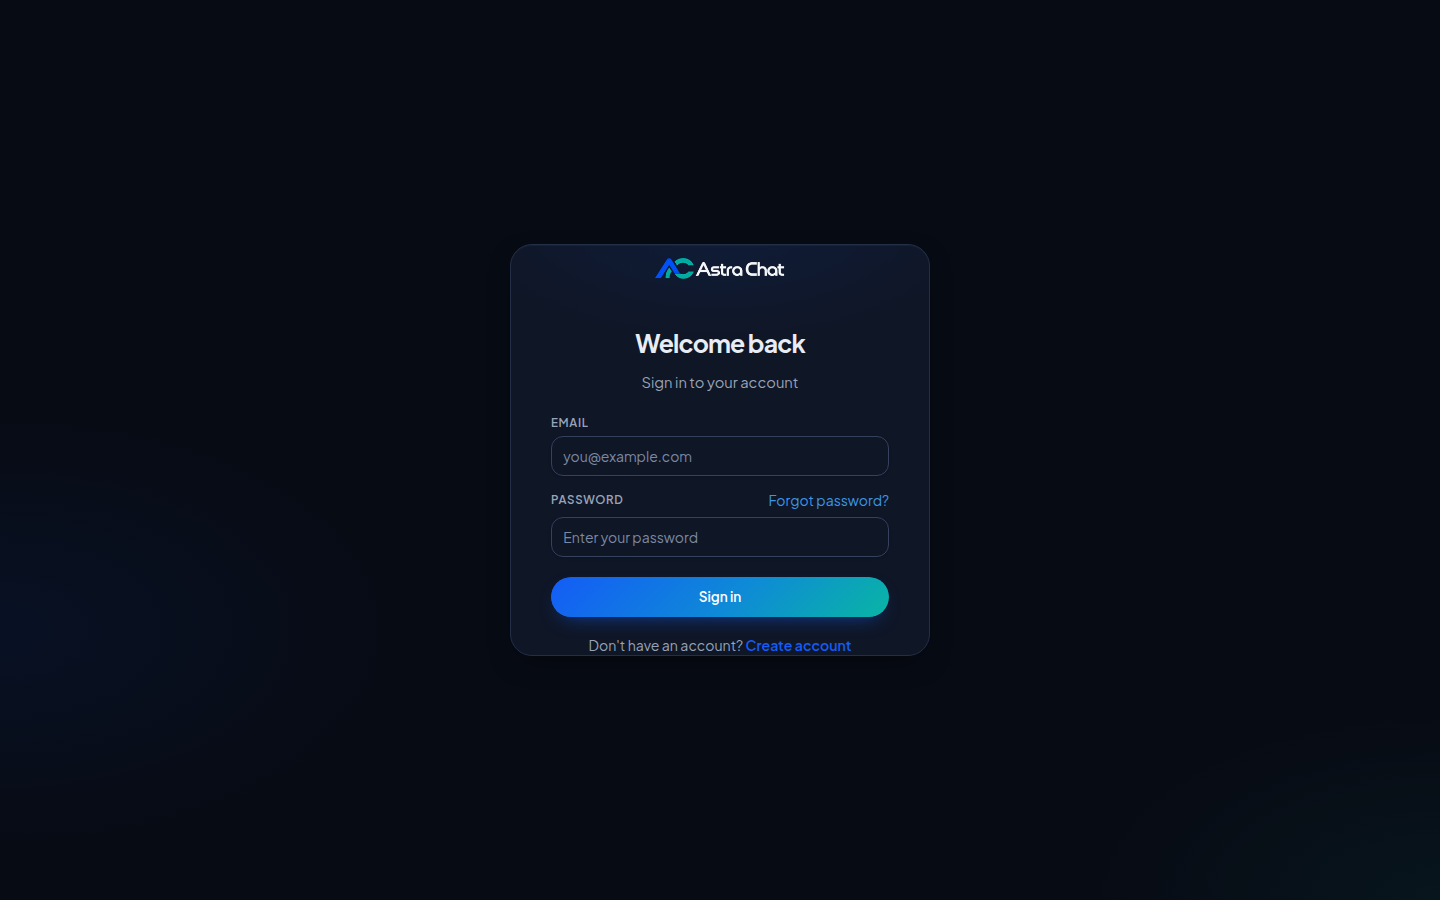
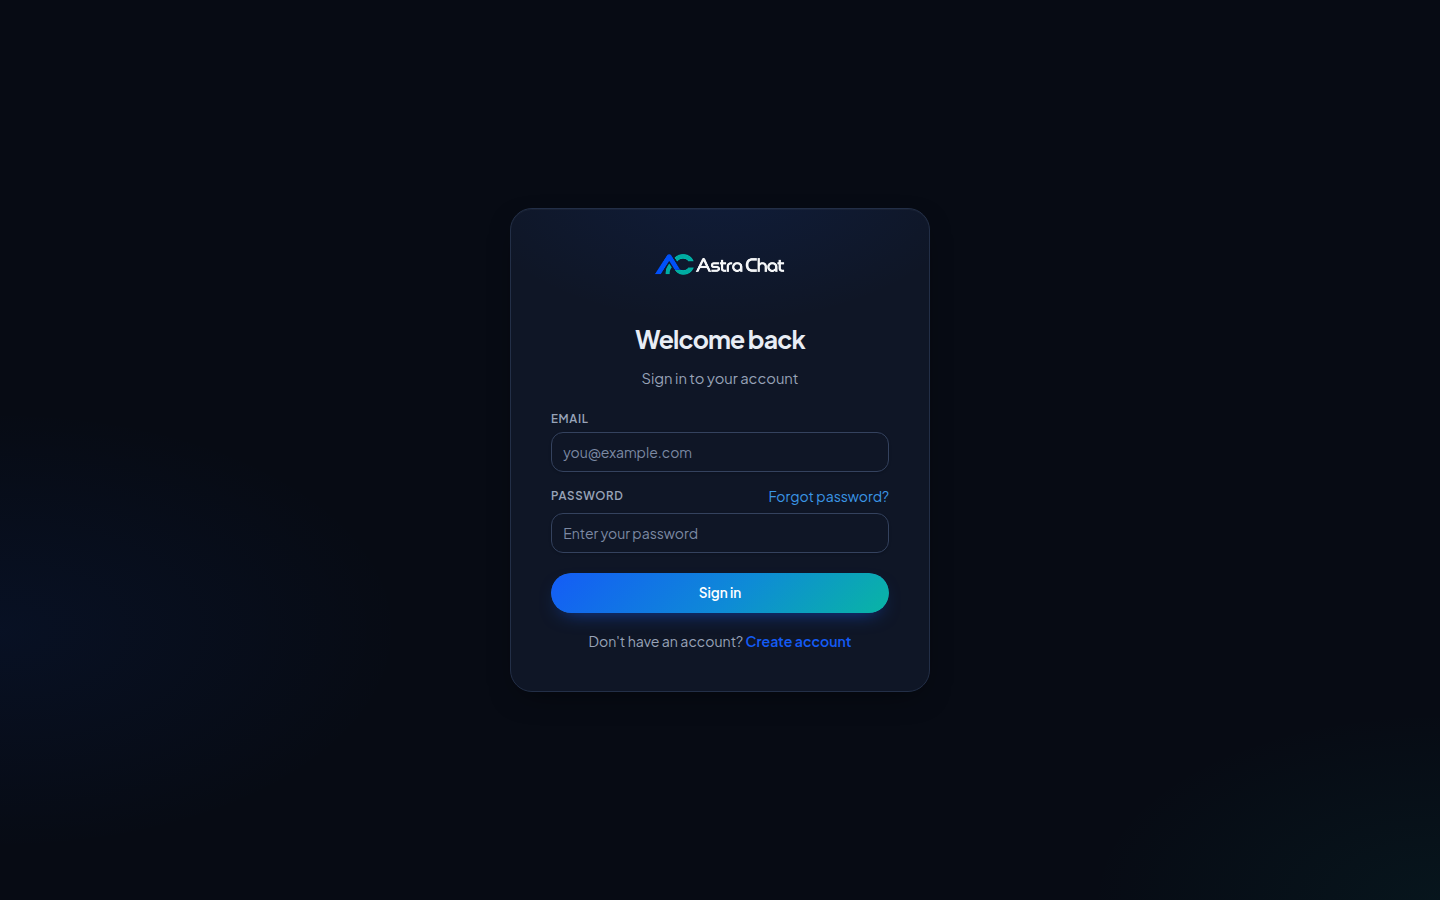
fix(review): restore login card top padding; retake login + 1440 shots
Remove !py-0 on auth cards so .acl-card's 32px top padding actually
applies, then retake login-light/dark and a real 1440 integrations shot.

diff --git a/src/app/(auth)/forgot-password/page.tsx b/src/app/(auth)/forgot-password/page.tsx
@@ -47,7 +47,7 @@ export default function ForgotPasswordPage() {
   if (success) {
     return (
       <div className="acl-wrap">
-        <Card className="acl-card !block !gap-0 !py-0">
+        <Card className="acl-card !block !gap-0">
           <CardHeader className="items-center px-0 text-center">
             <div className="bg-primary/10 mb-2 flex h-12 w-12 items-center justify-center rounded-xl">
               <CheckCircle className="text-primary h-6 w-6" />
@@ -74,7 +74,7 @@ export default function ForgotPasswordPage() {
 
   return (
     <div className="acl-wrap">
-      <Card className="acl-card !block !gap-0 !py-0">
+      <Card className="acl-card !block !gap-0">
         <CardHeader className="items-center px-0 text-center">
           <BrandLockup
             size={275}

diff --git a/src/app/(auth)/signup/page.tsx b/src/app/(auth)/signup/page.tsx
@@ -95,7 +95,7 @@ function SignupPageInner() {
   if (success) {
     return (
       <div className="acl-wrap">
-        <Card className="acl-card !block !gap-0 !py-0">
+        <Card className="acl-card !block !gap-0">
           <CardHeader className="items-center px-0 text-center">
             <div className="bg-primary/10 mb-2 flex h-12 w-12 items-center justify-center rounded-xl">
               <CheckCircle className="text-primary h-6 w-6" />
@@ -128,7 +128,7 @@ function SignupPageInner() {
 
   return (
     <div className="acl-wrap">
-      <Card className="acl-card !block !gap-0 !py-0">
+      <Card className="acl-card !block !gap-0">
         <CardHeader className="items-center px-0 text-center">
           <BrandLockup
             size={275}

diff --git a/src/app/(auth)/login/page.tsx b/src/app/(auth)/login/page.tsx
@@ -75,7 +75,7 @@ function LoginPageInner() {
 
   return (
     <div className="acl-wrap">
-      <Card className="acl-card !block !gap-0 !py-0">
+      <Card className="acl-card !block !gap-0">
         <CardHeader className="items-center px-0 text-center">
           <BrandLockup
             size={275}
